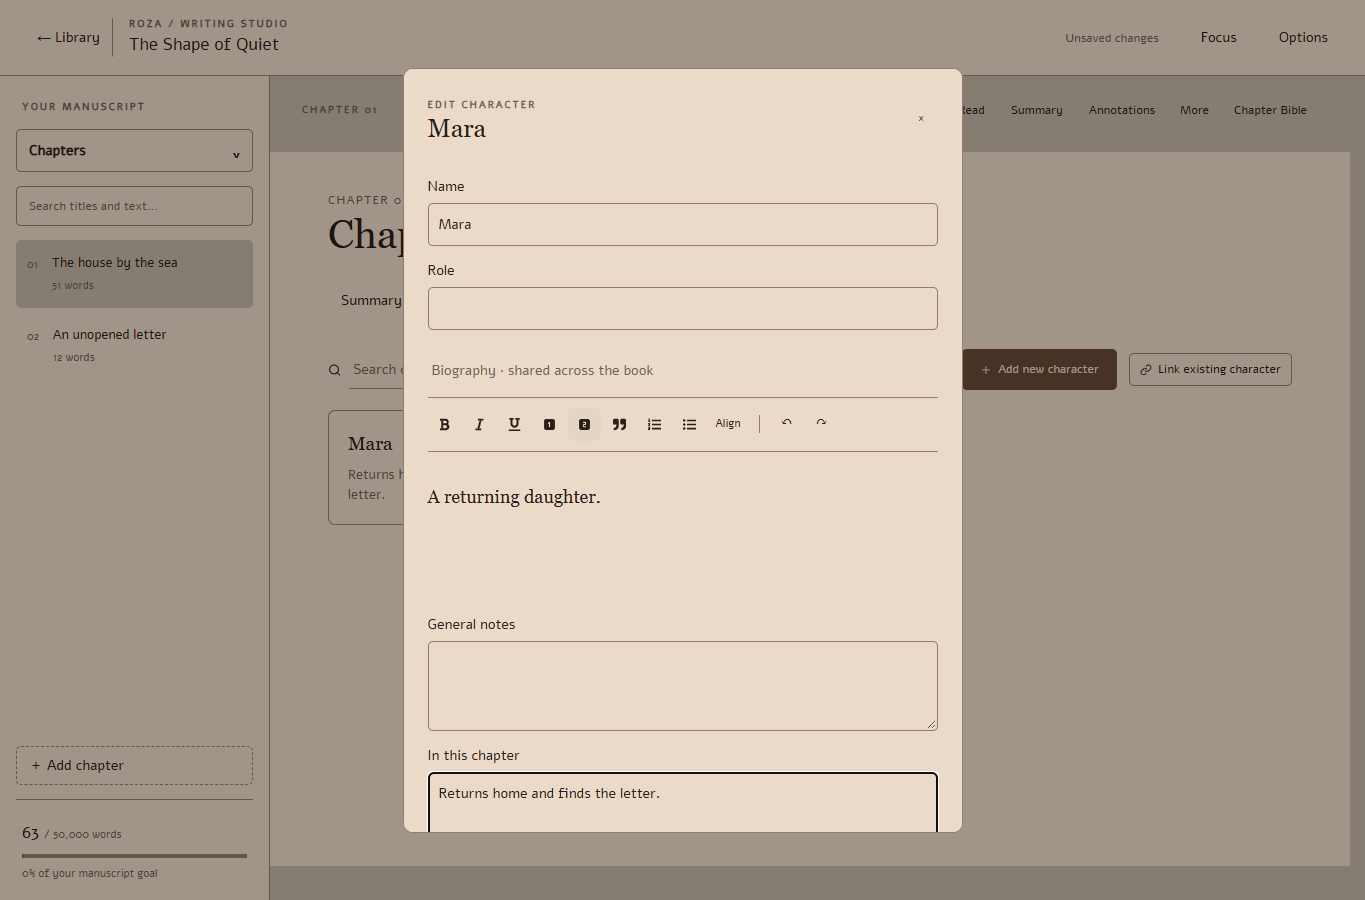
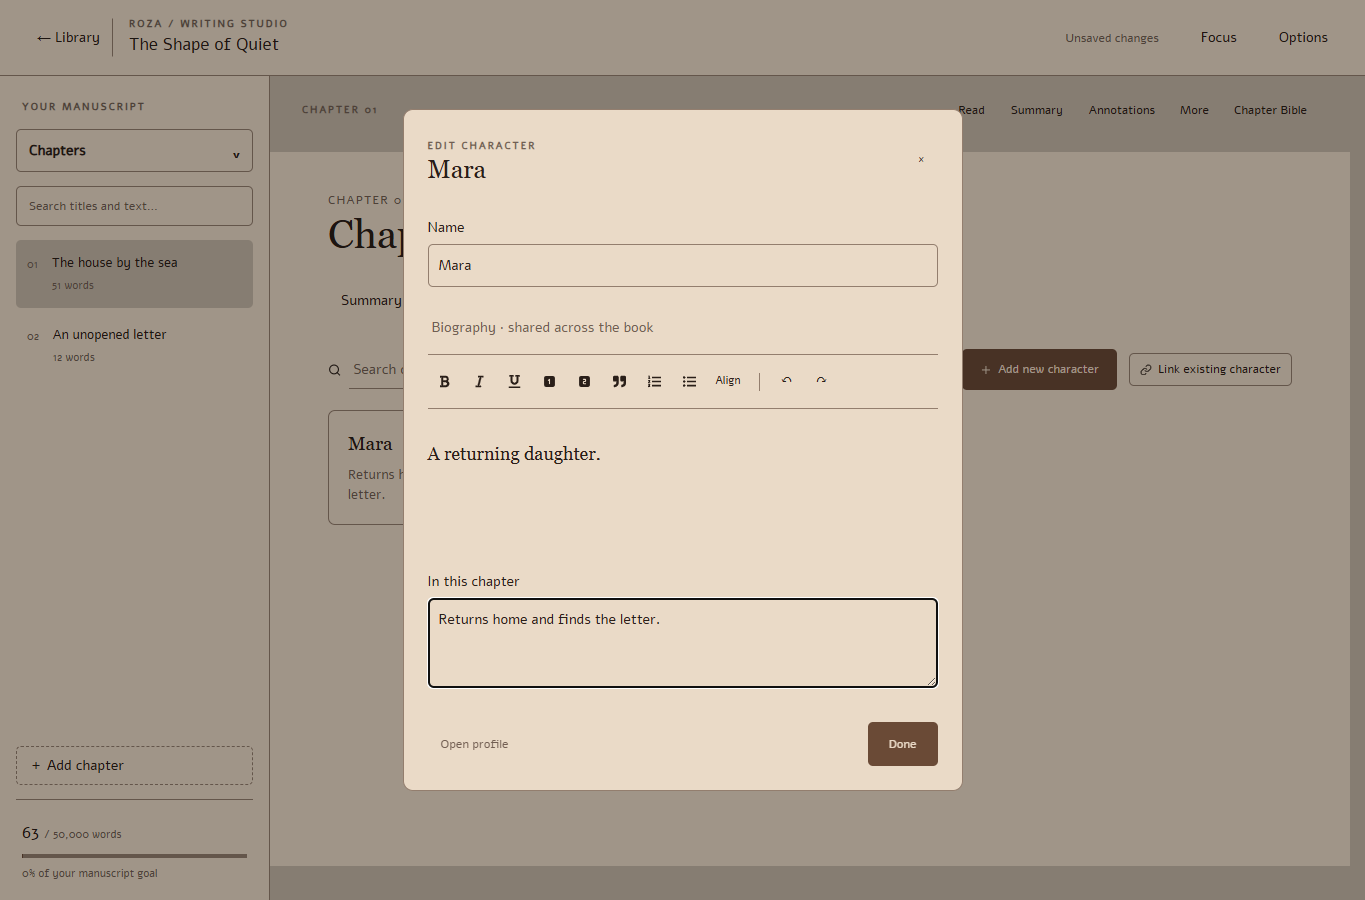
Remove unused character role and general notes throughout the stack

diff --git a/frontend/src/components/WritingStudio/ChapterElements.tsx b/frontend/src/components/WritingStudio/ChapterElements.tsx
@@ -59,8 +59,6 @@ export function ChapterElements({
     patch: {
       name?: string;
       description?: SlateCustomElement[];
-      role?: string;
-      notes?: string;
     },
   ) {
     store.edit(b => ({
@@ -363,8 +361,6 @@ function EntityDetailsDialog({
     id: string;
     name: string;
     description: SlateCustomElement[];
-    role?: string;
-    notes?: string;
   };
   kind: StoryKind;
   editing: boolean;
@@ -374,8 +370,6 @@ function EntityDetailsDialog({
   onUpdate: (patch: {
     name?: string;
     description?: SlateCustomElement[];
-    role?: string;
-    notes?: string;
   }) => void;
   onNote: (note: string) => void;
   onProfile: () => void;
@@ -444,17 +438,6 @@ function EntityDetailsDialog({
               }}
             />
           </label>
-          {kind === "characters" && (
-            <label>
-              Role
-              <input
-                dir="auto"
-                value={entity.role || ""}
-                maxLength={500}
-                onChange={e => onUpdate({ role: e.target.value })}
-              />
-            </label>
-          )}
           <p className="ws-muted">
             {kind === "characters" ? "Biography" : "Description"} · shared
             across the book
@@ -466,17 +449,6 @@ function EntityDetailsDialog({
             readOnly={disabled}
             onChange={description => onUpdate({ description })}
           />
-          {kind === "characters" && (
-            <label>
-              General notes
-              <textarea
-                dir="auto"
-                value={entity.notes || ""}
-                maxLength={50000}
-                onChange={e => onUpdate({ notes: e.target.value })}
-              />
-            </label>
-          )}
           {kind !== "themes" && (
             <label>
               In this chapter
@@ -492,11 +464,6 @@ function EntityDetailsDialog({
         </fieldset>
       ) : (
         <div className="cp-entity-reading">
-          {entity.role && (
-            <p className="ws-muted" dir="auto">
-              {entity.role}
-            </p>
-          )}
           <h3>{kind === "characters" ? "Biography" : "Description"}</h3>
           {plainText(entity.description).trim() ? (
             <div
@@ -508,12 +475,6 @@ function EntityDetailsDialog({
             />
           ) : (
             <p className="ws-muted">No description yet.</p>
-          )}
-          {entity.notes && (
-            <>
-              <h3>General notes</h3>
-              <p dir="auto">{entity.notes}</p>
-            </>
           )}
           {kind !== "themes" && (
             <>

diff --git a/backend/src/models/books/schemas/characterSchema.ts b/backend/src/models/books/schemas/characterSchema.ts
@@ -5,8 +5,6 @@ import { getDefaultSlateElement } from "../../../services/util/utilService";
 
 const characterSchema = new Schema<ICharacter>(
   {
-    role: { type: String, default: "", maxlength: 500 },
-    notes: { type: String, default: "", maxlength: 50000 },
     bookId: {
       type: Schema.Types.ObjectId,
       required: [true, "Please provide a book id"],

diff --git a/backend/src/types/iTypes.ts b/backend/src/types/iTypes.ts
@@ -63,8 +63,6 @@ export interface IChapter extends IBasicBookDataItem {
 }
 
 export interface ICharacter extends IBasicBookDataItem {
-  role?: string;
-  notes?: string;
   name: string;
   description: ISlateCustomElement[];
   type: "characters";

diff --git a/shared/types/books.ts b/shared/types/books.ts
@@ -108,8 +108,6 @@ export interface Chapter extends BasicBookDataItem {
 }
 
 export interface Character extends BasicBookDataItem {
-  role?: string;
-  notes?: string;
   name: string;
   description: SlateCustomElement[];
   type: "characters";

diff --git a/docs/chapter-planning/README.md b/docs/chapter-planning/README.md
@@ -6,11 +6,11 @@ Branch: `feature/chapter-planning`, based on verified `origin/main` commit `04f0
 
 In Chapters, the Chapter Bible button immediately after More switches the manuscript page to a chapter workspace with Characters, Themes, Plotlines, Tasks and Summary navigation. Press it again, or choose Read/Summary/Annotations, to return to writing. Chapter Preview retains its collapsible Chapter Planning inspector. Both views edit the same shared records. A muted chapter number and name sit above the Chapter Bible heading, the page matches manuscript editor width, and save state is shown only in the app header. Summary editing preserves rich text; character and plotline contribution notes are plain text stored on the chapter association.
 
-The Characters tab presents searchable cards; Themes and Plotlines use searchable rows. Header actions create new shared entries, and clicking a card/row name opens a read-only details modal. A pencil beside the trash icon opens a separate edit modal for the shared description and chapter contribution. Character editors also expose role and general notes. Cards and rows have no chevron or hover background. Link existing opens a searchable checkbox modal; checking an entry links it immediately. Trash icons and unchecking linked entries open a confirmation explaining that removal only affects the chapter association and preserves the shared entry. The explanation is shown in the confirmation rather than beneath the tab. Summary retains its rich-text editor.
+The Characters tab presents searchable cards; Themes and Plotlines use searchable rows. Header actions create new shared entries, and clicking a card/row name opens a read-only details modal. A pencil beside the trash icon opens a separate edit modal for the shared description and chapter contribution. Cards and rows have no chevron or hover background. Link existing opens a searchable checkbox modal; checking an entry links it immediately. Trash icons and unchecking linked entries open a confirmation explaining that removal only affects the chapter association and preserves the shared entry. The explanation is shown in the confirmation rather than beneath the tab. Summary retains its rich-text editor.
 
 The Tasks tab embeds the existing Trello-style board, scoped to this chapter. It supports card creation, editing, completion/reopening, deletion, drag between columns, and linking existing book tasks. Chapter and book task boards share list creation, renaming, sorting and deletion controls. Lists and their tasks are shared; chapter deletion confirmations identify that scope, including tasks outside the chapter. Tasks are existing book task-board cards, extended with optional `chapterId` and `completed`. The chapter board and preview inspector edit these same cards; Open in book board opens the original card and list. The board supports chapter assignment/removal and a chapter filter. Completion is explicit, independent of editable board list names.
 
-Characters, themes and plotlines reuse the existing book libraries. The separate book-wide Story Bible UI has been removed. Shared entities remain accessible through the existing Characters, Themes and Plotlines category editors. Chapter Bible references open those existing editors. Backend fields for role/general notes and optional colors remain preserved. Chapters link to entity IDs, with separate contribution notes for plotlines and characters. Theme tags and compact counts appear on overview cards; filters cover all three libraries and unfinished tasks. Reordering is disabled while filtering to avoid ambiguous moves, while chapter editing remains available.
+Characters, themes and plotlines reuse the existing book libraries. The separate book-wide Story Bible UI has been removed. Shared entities remain accessible through the existing Characters, Themes and Plotlines category editors. Chapter Bible references open those existing editors. Optional theme and plotline colors remain supported; unused character role and general-notes fields have been removed from the UI, shared types and backend schema. Chapters link to entity IDs, with separate contribution notes for plotlines and characters. Theme tags and compact counts appear on overview cards; filters cover all three libraries and unfinished tasks. Reordering is disabled while filtering to avoid ambiguous moves, while chapter editing remains available.
 
 ## Database migration and API
 
@@ -20,7 +20,6 @@ Added fields:
 
 - `chapters[].planning.{themes,plotlines,characters}[]`: `{ entityId, note? }`.
 - `taskBoard.lists[].cards[].chapterId?`, `completed?`.
-- `characters[].role?`, `notes?`.
 - `themes[].color?`, `plotlines[].color?`.
 
 The existing authenticated owner-scoped book API, serialized autosave, optimistic `updatedAt` conflict check and browser recovery store are reused. Server validation runs before updates and rejects unknown book-local references, duplicate associations, mismatched item `bookId` values and malformed collections. Schema validation enforces colors and note lengths. Chapter and entity archive actions preserve records and references; archived entities are hidden from active pickers. Hard removal of a referenced record is rejected until its references are removed. Archiving a chapter never deletes shared entities or board tasks.
